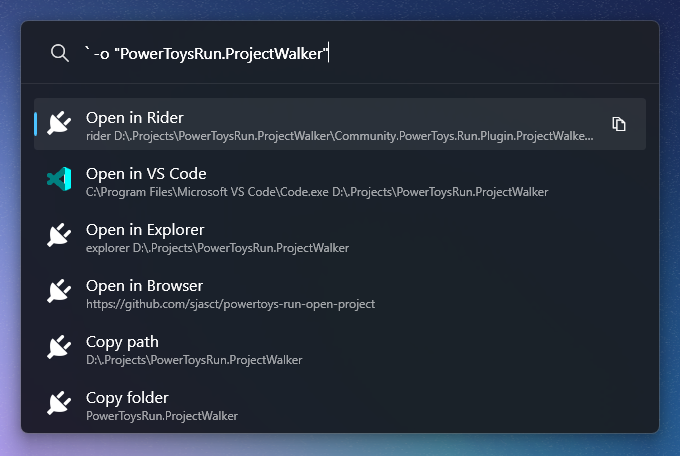
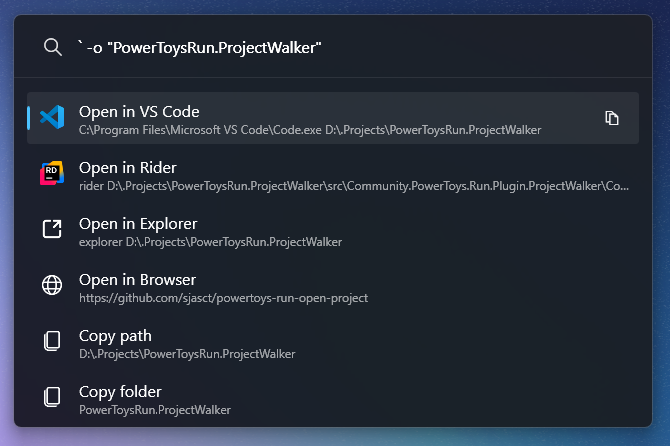
update docs

diff --git a/README.md b/README.md
@@ -1,10 +1,8 @@
 # ProjectWalker
 A plugin for [PowerToys Run](https://github.com/microsoft/powertoys) that lets you navigate your local copy of repositories and perform various actions, such as opening in IDE or your browser.
 
-**DISCLAIMER**  
-This was made for my own personal use. It is far from optimised, slightly jankey, and tailored to my specific use case. The project may be expanded in the future, for example with new features in the PowerToys Run API, but this should not be classed as a supported project.
-
-If any feature suggestions / bugs are raised, I will get to them when I get time.
+> [!NOTE]  
+> This was made for my own personal use. It is far from optimised, slightly jankey, and tailored to my specific use case. The project may be expanded in the future, for example with new features in the PowerToys Run API, but this should not be classed as a project with ongoing suopport.
 
 ### Install
 1. Stop PowerToys
@@ -32,18 +30,21 @@ This will need to be set to the folder path where your repos live.
 `ignoredFolders` - `string[]`  
 A list of folders you don't want including in the results
 
-`folderStructureType` - `int`  
+`folderStructureType` - `int`  *default `1`*  
 Defines how your repo folders are structured
 
 *Options:*  
-`0`: Repos are organised into parent project folders e,g, `C:\base\project-name\repo-name`  (default)  
-`1`: All repos live directly under the base directory e.g. `C:\base\repo-name`
+`0`: Repos are organised into parent project folders e,g, `C:\base\project-name\repo-name`   
+`1`: All repos live directly under the base directory e.g. `C:\base\repo-name` (default)
 
 `customEditorExecutablePath` - `string` *(optional)*  
 Path to an executable to open when the "open config with custom editor" is used. This option will not show if this isn't populated.
 
-`searchMatchRatio` - `int`  
-Ratio (between 1-100) needed to match folders according to the search term, based on fuzzy search. The higher the number, the closer the more accurate the results, the lower the looser the requirements for a match. Default is 70.
+`searchMatchRatio` - `int` *default `70`*  
+Ratio (between 1-100) needed to match folders according to the search term, based on fuzzy search. If the value is high (80-100s for example), the more accurate the results will be. A lower value will be more forgiving with typos and substrings.
+
+`tryExtractProcessIcons` - `bool` *default `false`*  
+If a process option does not have a custom icon set, when this option is set to true, it will try to extract the icon from the process. *This isn't always reliable and might give low quality icons.*
 
 `openOptions` - `openOptions[]` *see below*
 
@@ -59,6 +60,7 @@ These are the set of options you receieve when selecting a project.
     "type": "process",
     "name": "Open Solution",
     "processName": "rider",
+    "iconPath": "rider.png",
     "parameters": "{{FILE:*.sln}}"
 }
 ```
@@ -92,8 +94,14 @@ These are the set of options you receieve when selecting a project.
 
 If a variable is used in an option, but cannot be applied (e.g. not a git repo, no suitable file found) the option will not show.
 
+**Icons**  
+All options support custom icons with the `iconPath` property. This can either be an absolute path to an image (i.e. `C:\icons\sample.png`) or relative to the plugin icons folder which is located at `%APPDATA%/ProjectWalker/icons/`.
+
+Options of process type also support trying to extract the icon from the process executable, however this is disabled by default as it's not always reliable and doesn't give high quality icons most of the time. You can enable this by setting the config flag `tryExtractProcessIcons` to `true`. Extracted icons are stored in the cache folder `%APPDATA%/ProjectWalker/icons/cache`, which will need to be cleared if a process has changed it's icon.
+
 #### Libraries Used
 
 - [FuzzySharp](https://github.com/JakeBayer/FuzzySharp)
 - [libgit2sharp](https://github.com/libgit2/libgit2sharp)
 - [Community.PowerToys.Run.Plugin.Dependencies](https://github.com/hlaueriksson/Community.PowerToys.Run.Plugin.Dependencies) (build only)
+- [fluentui-system-icons](https://github.com/microsoft/fluentui-system-icons)
